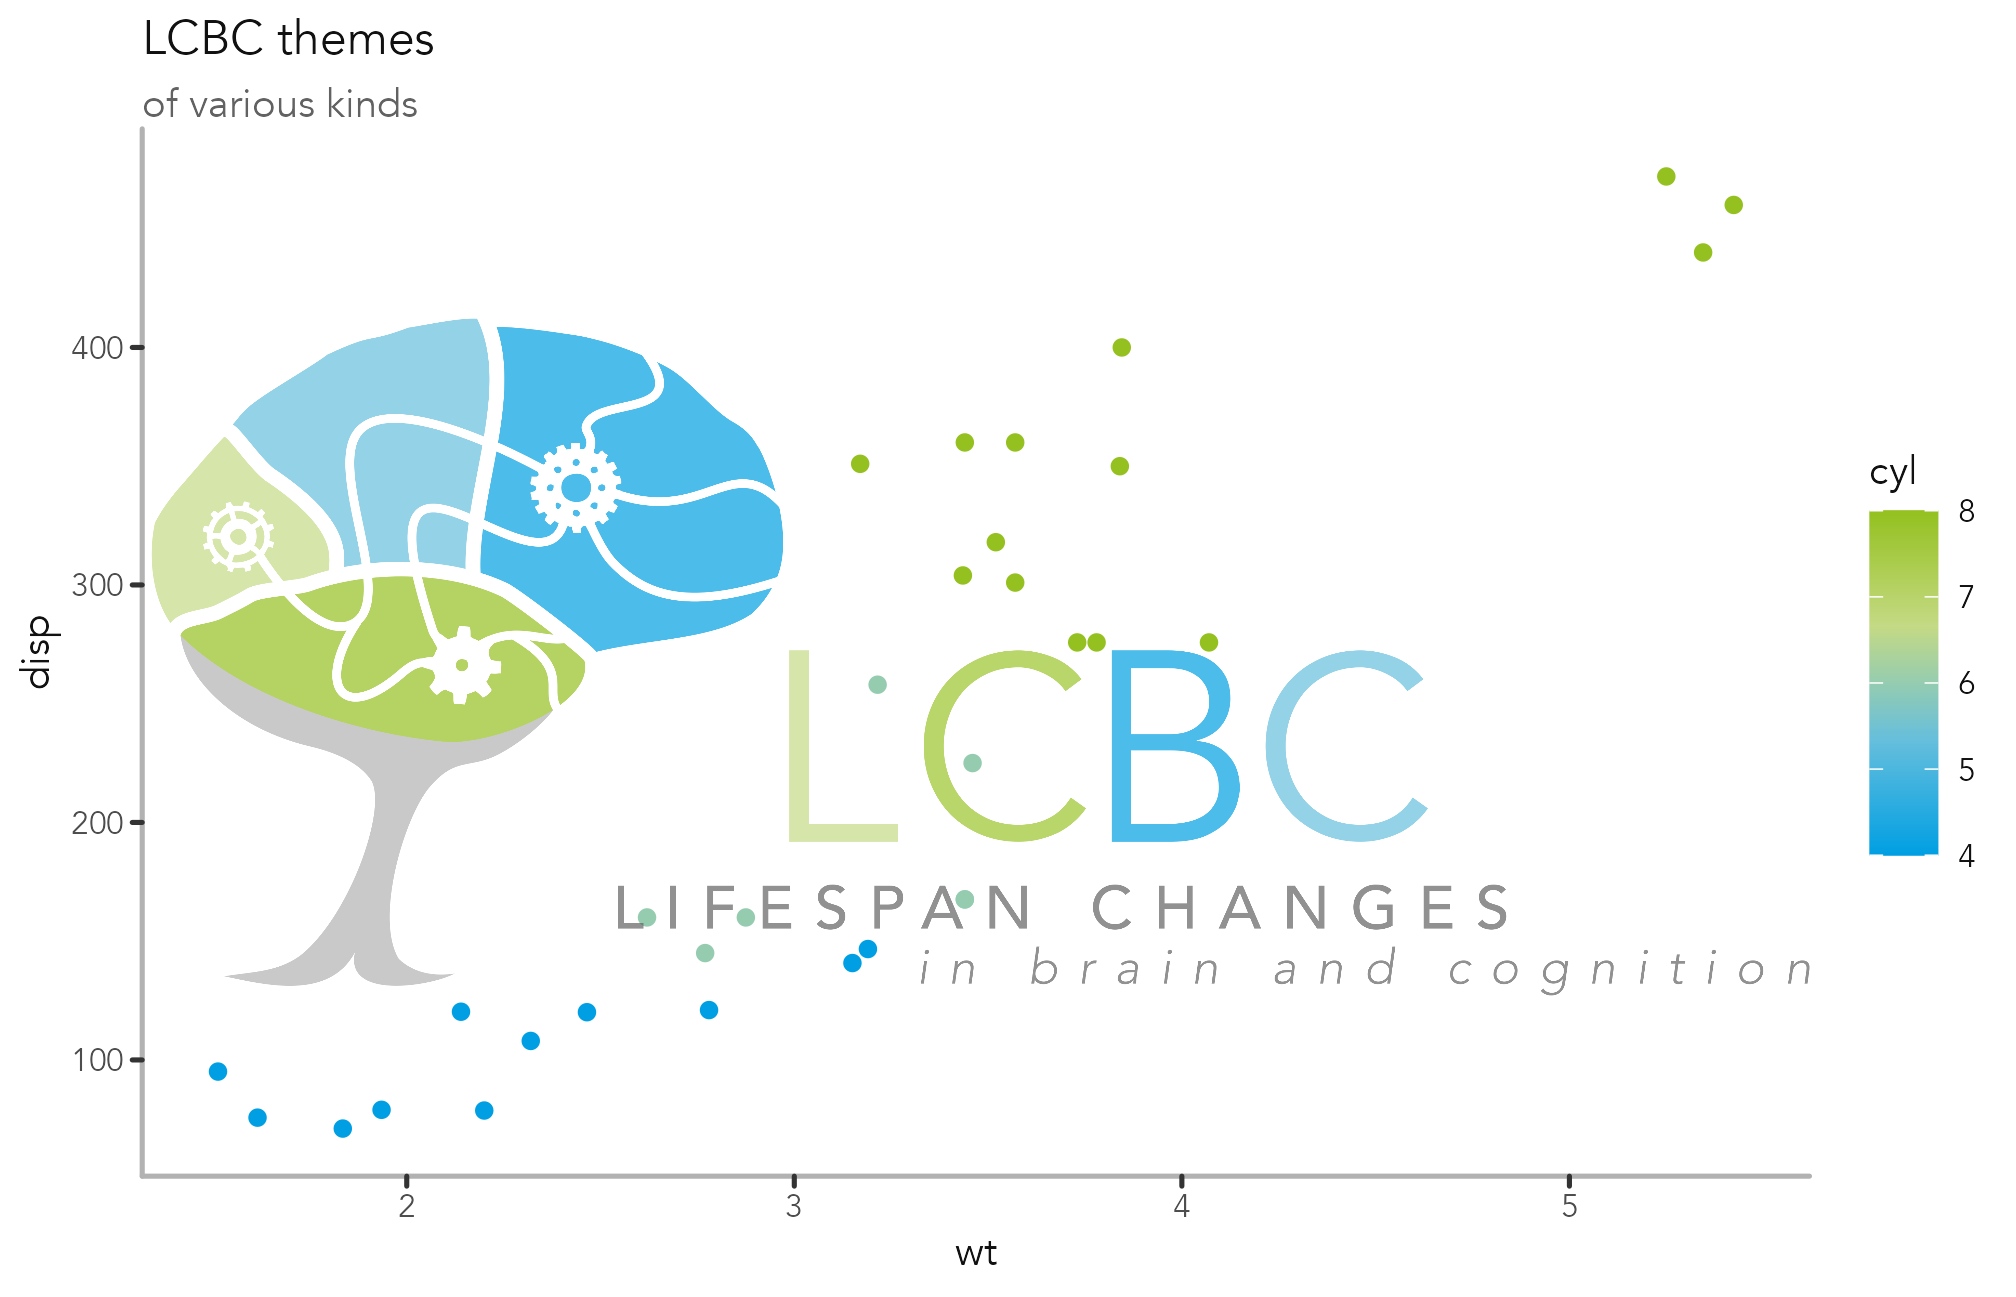
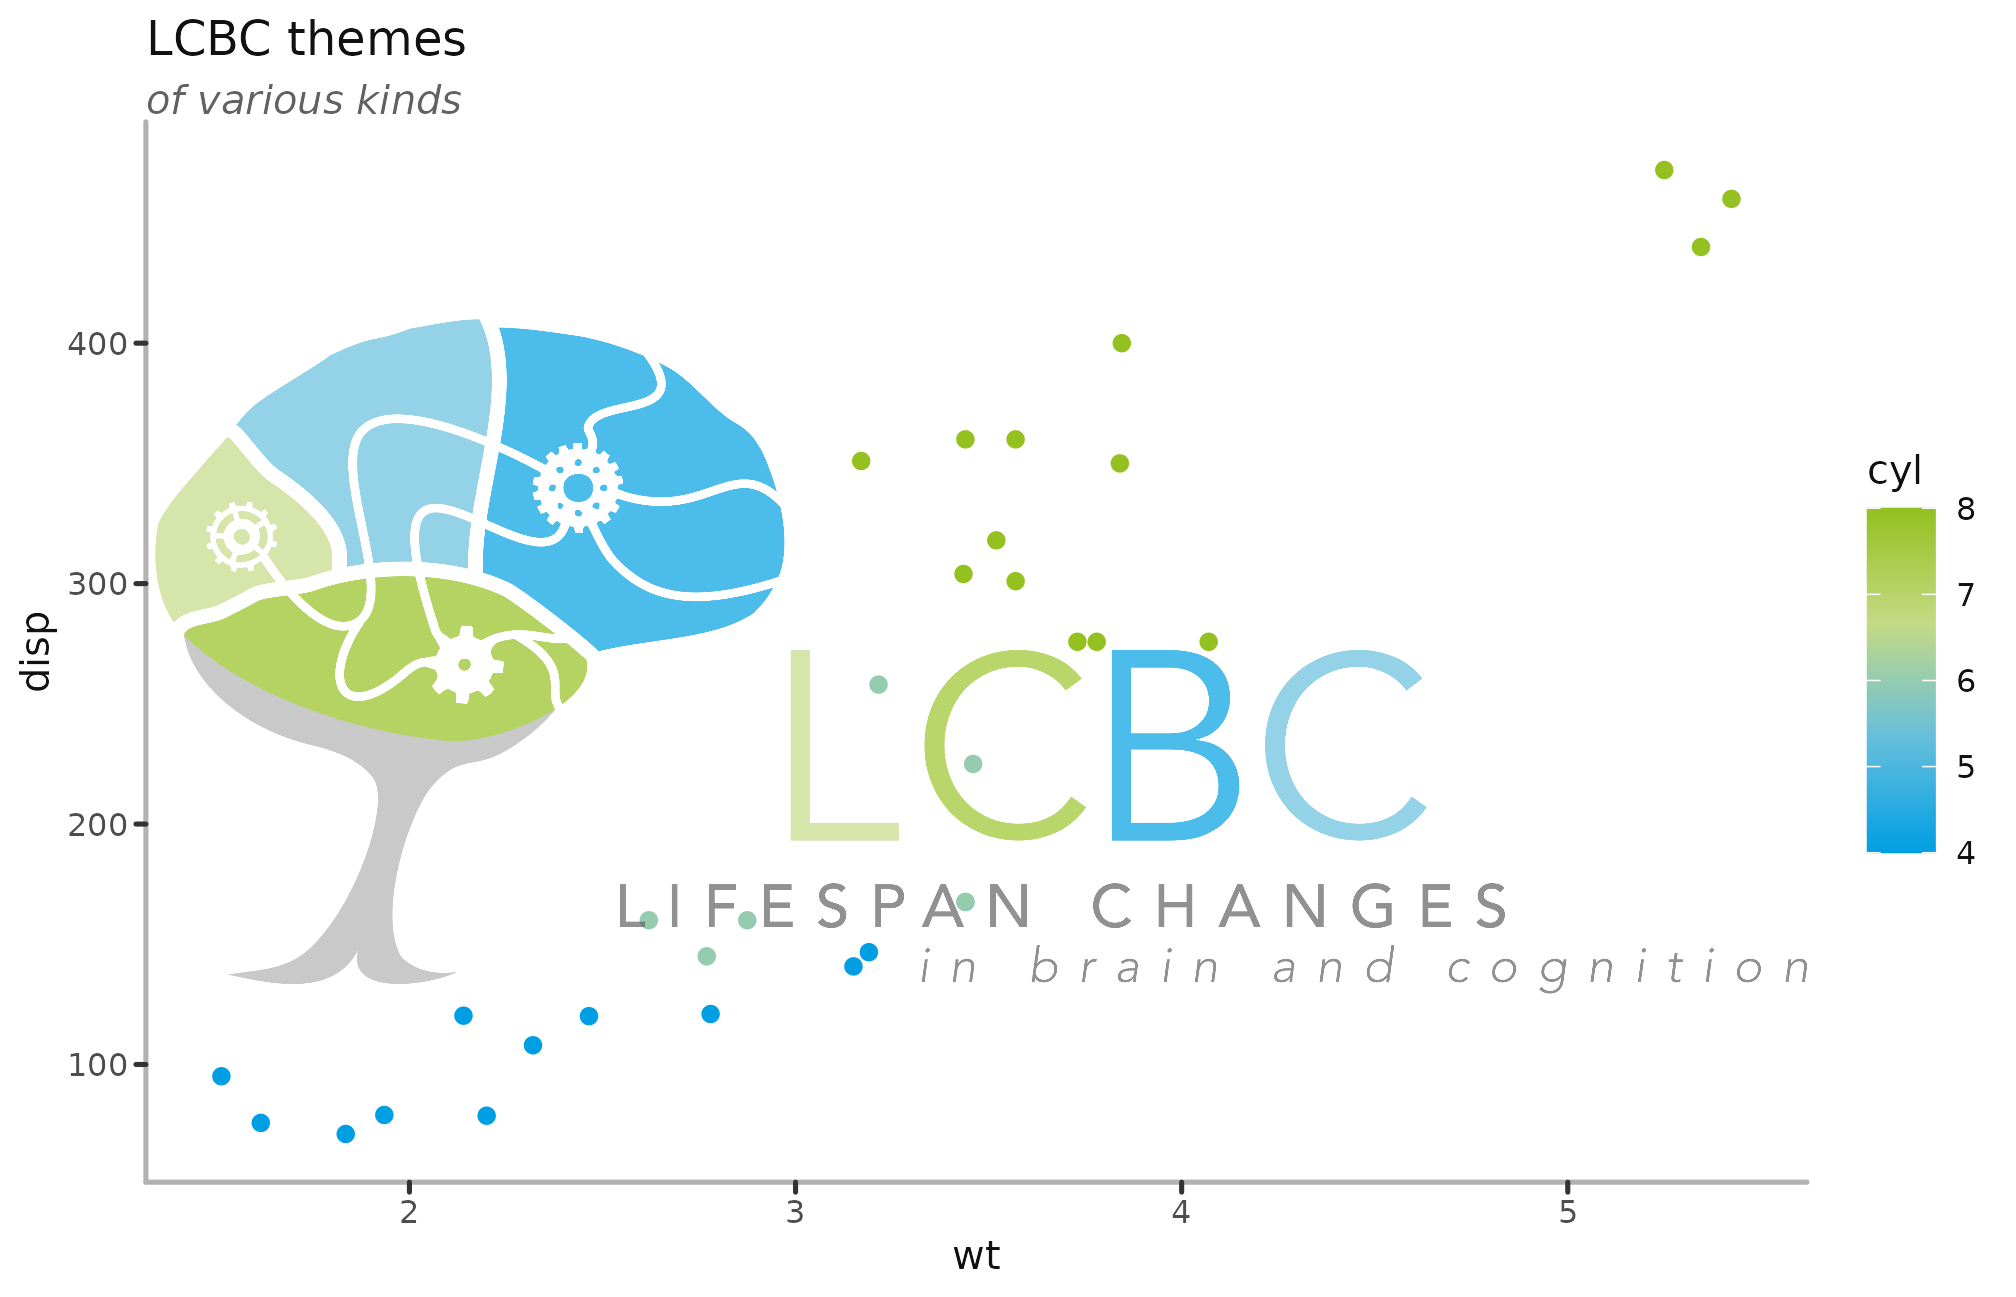
Built site for lcbcr: 0.0.1@9ace050

diff --git a/reference/lcbc_install_font.html b/reference/lcbc_install_font.html
@@ -1,0 +1,101 @@
+<!DOCTYPE html>
+<!-- Generated by pkgdown: do not edit by hand --><html lang="en"><head><meta http-equiv="Content-Type" content="text/html; charset=UTF-8"><meta charset="utf-8"><meta http-equiv="X-UA-Compatible" content="IE=edge"><meta name="viewport" content="width=device-width, initial-scale=1.0"><title>Install Avenir font for LCBC branding — lcbc_install_font • lcbcr</title><!-- favicons --><link rel="icon" type="image/png" sizes="16x16" href="../favicon-16x16.png"><link rel="icon" type="image/png" sizes="32x32" href="../favicon-32x32.png"><link rel="apple-touch-icon" type="image/png" sizes="180x180" href="../apple-touch-icon.png"><link rel="apple-touch-icon" type="image/png" sizes="120x120" href="../apple-touch-icon-120x120.png"><link rel="apple-touch-icon" type="image/png" sizes="76x76" href="../apple-touch-icon-76x76.png"><link rel="apple-touch-icon" type="image/png" sizes="60x60" href="../apple-touch-icon-60x60.png"><!-- jquery --><script src="https://cdnjs.cloudflare.com/ajax/libs/jquery/3.4.1/jquery.min.js" integrity="sha256-CSXorXvZcTkaix6Yvo6HppcZGetbYMGWSFlBw8HfCJo=" crossorigin="anonymous"></script><!-- Bootstrap --><link rel="stylesheet" href="https://cdnjs.cloudflare.com/ajax/libs/twitter-bootstrap/3.4.1/css/bootstrap.min.css" integrity="sha256-bZLfwXAP04zRMK2BjiO8iu9pf4FbLqX6zitd+tIvLhE=" crossorigin="anonymous"><script src="https://cdnjs.cloudflare.com/ajax/libs/twitter-bootstrap/3.4.1/js/bootstrap.min.js" integrity="sha256-nuL8/2cJ5NDSSwnKD8VqreErSWHtnEP9E7AySL+1ev4=" crossorigin="anonymous"></script><!-- bootstrap-toc --><link rel="stylesheet" href="../bootstrap-toc.css"><script src="../bootstrap-toc.js"></script><!-- Font Awesome icons --><link rel="stylesheet" href="https://cdnjs.cloudflare.com/ajax/libs/font-awesome/5.12.1/css/all.min.css" integrity="sha256-mmgLkCYLUQbXn0B1SRqzHar6dCnv9oZFPEC1g1cwlkk=" crossorigin="anonymous"><link rel="stylesheet" href="https://cdnjs.cloudflare.com/ajax/libs/font-awesome/5.12.1/css/v4-shims.min.css" integrity="sha256-wZjR52fzng1pJHwx4aV2AO3yyTOXrcDW7jBpJtTwVxw=" crossorigin="anonymous"><!-- clipboard.js --><script src="https://cdnjs.cloudflare.com/ajax/libs/clipboard.js/2.0.6/clipboard.min.js" integrity="sha256-inc5kl9MA1hkeYUt+EC3BhlIgyp/2jDIyBLS6k3UxPI=" crossorigin="anonymous"></script><!-- headroom.js --><script src="https://cdnjs.cloudflare.com/ajax/libs/headroom/0.11.0/headroom.min.js" integrity="sha256-AsUX4SJE1+yuDu5+mAVzJbuYNPHj/WroHuZ8Ir/CkE0=" crossorigin="anonymous"></script><script src="https://cdnjs.cloudflare.com/ajax/libs/headroom/0.11.0/jQuery.headroom.min.js" integrity="sha256-ZX/yNShbjqsohH1k95liqY9Gd8uOiE1S4vZc+9KQ1K4=" crossorigin="anonymous"></script><!-- pkgdown --><link href="../pkgdown.css" rel="stylesheet"><script src="../pkgdown.js"></script><meta property="og:title" content="Install Avenir font for LCBC branding — lcbc_install_font"><meta property="og:description" content="Install Avenir font for LCBC branding"><meta property="og:image" content="/logo.png"><!-- mathjax --><script src="https://cdnjs.cloudflare.com/ajax/libs/mathjax/2.7.5/MathJax.js" integrity="sha256-nvJJv9wWKEm88qvoQl9ekL2J+k/RWIsaSScxxlsrv8k=" crossorigin="anonymous"></script><script src="https://cdnjs.cloudflare.com/ajax/libs/mathjax/2.7.5/config/TeX-AMS-MML_HTMLorMML.js" integrity="sha256-84DKXVJXs0/F8OTMzX4UR909+jtl4G7SPypPavF+GfA=" crossorigin="anonymous"></script><!--[if lt IE 9]>
+<script src="https://oss.maxcdn.com/html5shiv/3.7.3/html5shiv.min.js"></script>
+<script src="https://oss.maxcdn.com/respond/1.4.2/respond.min.js"></script>
+<![endif]--></head><body data-spy="scroll" data-target="#toc">
+    
+
+    <div class="container template-reference-topic">
+      <header><div class="navbar navbar-default navbar-fixed-top" role="navigation">
+  <div class="container">
+    <div class="navbar-header">
+      <button type="button" class="navbar-toggle collapsed" data-toggle="collapse" data-target="#navbar" aria-expanded="false">
+        <span class="sr-only">Toggle navigation</span>
+        <span class="icon-bar"></span>
+        <span class="icon-bar"></span>
+        <span class="icon-bar"></span>
+      </button>
+      <span class="navbar-brand">
+        <a class="navbar-link" href="../index.html">lcbcr</a>
+        <span class="version label label-default" data-toggle="tooltip" data-placement="bottom" title="">0.0.1</span>
+      </span>
+    </div>
+
+    <div id="navbar" class="navbar-collapse collapse">
+      <ul class="nav navbar-nav"><li>
+  <a href="../reference/index.html">Reference</a>
+</li>
+<li class="dropdown">
+  <a href="#" class="dropdown-toggle" data-toggle="dropdown" role="button" aria-expanded="false">
+    Articles
+     
+    <span class="caret"></span>
+  </a>
+  <ul class="dropdown-menu" role="menu"><li>
+      <a href="../articles/ggplot-branding.html">Branding ggplots</a>
+    </li>
+  </ul></li>
+<li>
+  <a href="../news/index.html">Changelog</a>
+</li>
+      </ul><ul class="nav navbar-nav navbar-right"><li>
+  <a href="https://github.com/LCBC-UiO/lcbcr/" class="external-link">
+    <span class="fab fa-github fa-lg"></span>
+     
+  </a>
+</li>
+      </ul></div><!--/.nav-collapse -->
+  </div><!--/.container -->
+</div><!--/.navbar -->
+
+      
+
+      </header><div class="row">
+  <div class="col-md-9 contents">
+    <div class="page-header">
+    <h1>Install Avenir font for LCBC branding</h1>
+    <small class="dont-index">Source: <a href="https://github.com/LCBC-UiO/lcbcr/blob/HEAD/R/lcbc-fonts.R" class="external-link"><code>R/lcbc-fonts.R</code></a></small>
+    <div class="hidden name"><code>lcbc_install_font.Rd</code></div>
+    </div>
+
+    <div class="ref-description">
+    <p>Install Avenir font for LCBC branding</p>
+    </div>
+
+    <div id="ref-usage">
+    <div class="sourceCode"><pre class="sourceCode r"><code><span class="fu">lcbc_install_font</span><span class="op">(</span><span class="va">...</span><span class="op">)</span></code></pre></div>
+    </div>
+
+
+    <div id="ref-examples">
+    <h2>Examples</h2>
+    <div class="sourceCode"><pre class="sourceCode r"><code><span class="r-in"><span class="fu">lcbc_install_font</span><span class="op">(</span><span class="op">)</span></span>
+<span class="r-out co"><span class="r-pr">#&gt;</span> Importing fonts may take a few minutes, depending on the number of fonts and the speed of the system.</span>
+<span class="r-out co"><span class="r-pr">#&gt;</span> Continue? [y/n] </span>
+<span class="r-msg co"><span class="r-pr">#&gt;</span> Exiting.</span>
+</code></pre></div>
+    </div>
+  </div>
+  <div class="col-md-3 hidden-xs hidden-sm" id="pkgdown-sidebar">
+    <nav id="toc" data-toggle="toc" class="sticky-top"><h2 data-toc-skip>Contents</h2>
+    </nav></div>
+</div>
+
+
+      <footer><div class="copyright">
+  <p></p><p>Developed by Athanasia Mo Mowinckel.</p>
+</div>
+
+<div class="pkgdown">
+  <p></p><p>Site built with <a href="https://pkgdown.r-lib.org/" class="external-link">pkgdown</a> 2.0.2.</p>
+</div>
+
+      </footer></div>
+
+  
+
+
+  
+
+  </body></html>
+

diff --git a/articles/ggplot-branding.html b/articles/ggplot-branding.html
@@ -96,7 +96,9 @@
     
     
 <div class="sourceCode" id="cb1"><pre class="downlit sourceCode r">
-<code class="sourceCode R"><span class="kw"><a href="https://rdrr.io/r/base/library.html" class="external-link">library</a></span><span class="op">(</span><span class="va"><a href="https://github.com/LCBC-UiO/lcbcr" class="external-link">lcbcr</a></span><span class="op">)</span></code></pre></div>
+<code class="sourceCode R"><span class="kw"><a href="https://rdrr.io/r/base/library.html" class="external-link">library</a></span><span class="op">(</span><span class="va"><a href="https://github.com/LCBC-UiO/lcbcr" class="external-link">lcbcr</a></span><span class="op">)</span>
+<span class="co">#&gt; Warning in fun(libname, pkgname): You might want to run 'lcbc_install_font()' to</span>
+<span class="co">#&gt; install the LCBC branded font on your system.</span></code></pre></div>
 <p>In the event of needing plots that have LCBC branding for presentations, reports etc. we have custom ggplot2 themes and colour scales to ensure that we have consistent branding. These are particularly suitable when using the rmarkdown-templates that also accompany this package.</p>
 <div class="section level2">
 <h2 id="applying-the-lcbc-themes-to-ggplot">Applying the LCBC themes to ggplot<a class="anchor" aria-label="anchor" href="#applying-the-lcbc-themes-to-ggplot"></a>

diff --git a/reference/index.html b/reference/index.html
@@ -73,6 +73,10 @@
         </td>
         <td><p>Function to extract lcbc colors as hex codes</p></td>
       </tr><tr><td>
+          <p><code><a href="lcbc_install_font.html">lcbc_install_font()</a></code> </p>
+        </td>
+        <td><p>Install Avenir font for LCBC branding</p></td>
+      </tr><tr><td>
           <p><code><a href="lcbc_logo_grob.html">lcbc_logo_grob()</a></code> </p>
         </td>
         <td><p>LCBC logo graphics object</p></td>
